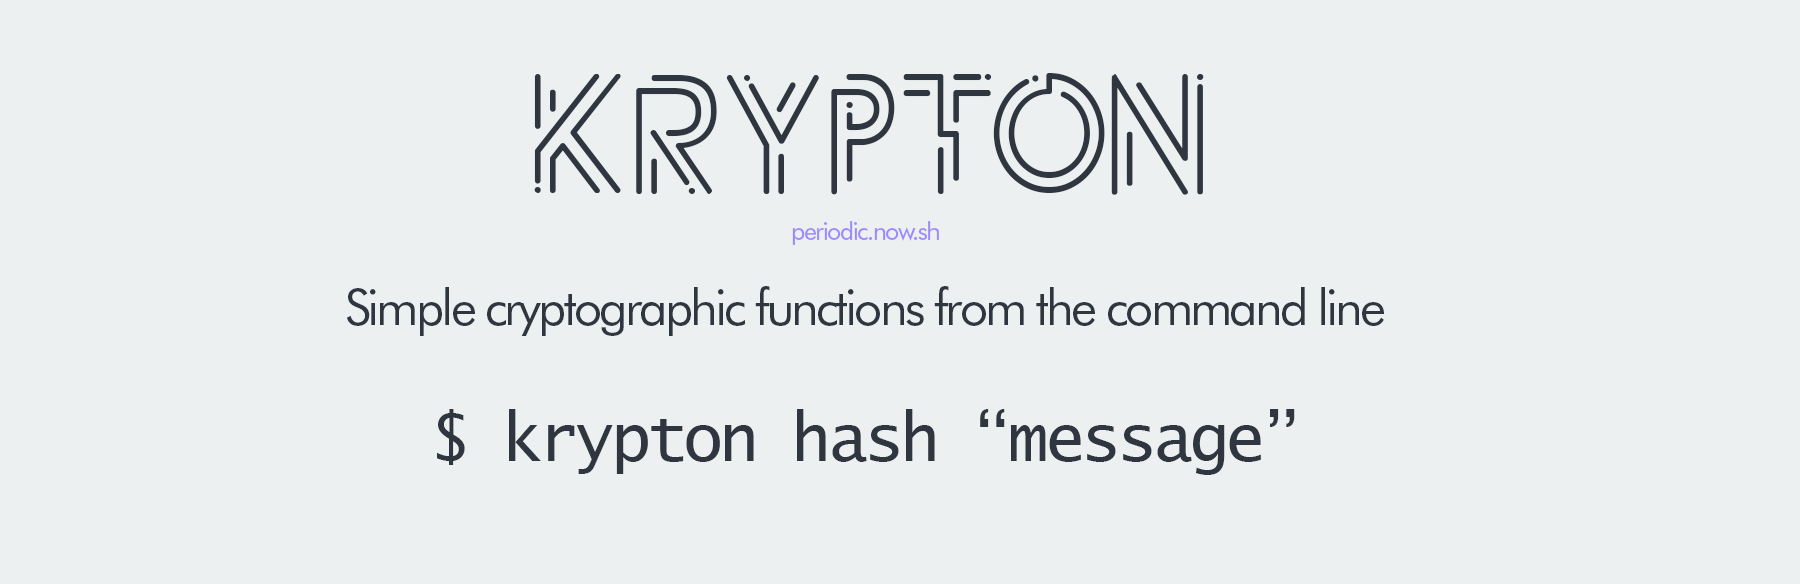
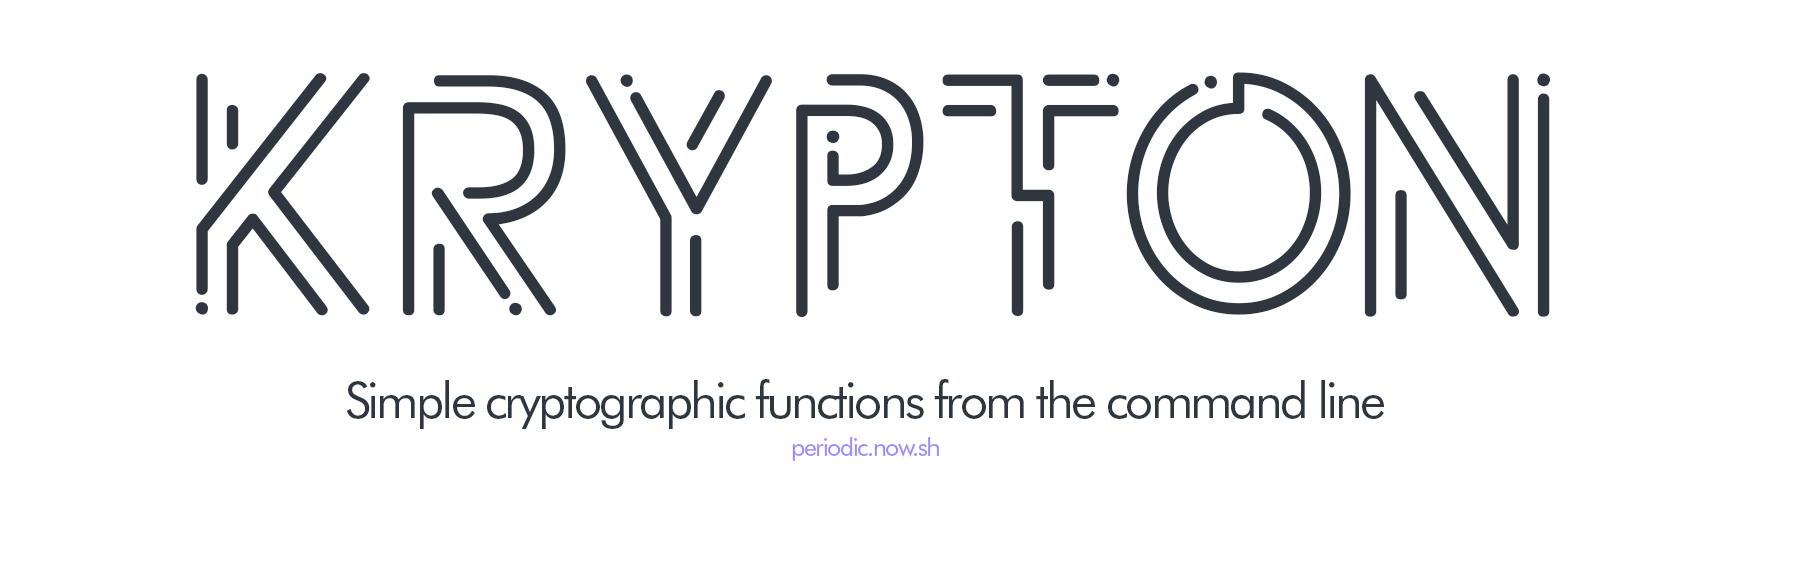
Improve readme with more examples and better header

Changed region(s): [[0.0933, 0.1233, 0.8711, 0.5856], [0.1867, 0.6473, 0.7778, 0.8322]]

diff --git a/README.md b/README.md
@@ -13,10 +13,35 @@ Or you can install the `periodic-cli` gem:
 
 ## Usage
 
-To encrypt a string, the command looks like this:
+All krypton functions use the same basic syntax: `krypton [cmd] {[message/secret]{[key]}}`
 
-    $ krypton encrypt "mymessage" "mykey" 
-    mymessage => ckhJWXcyTE1leENLOWpBQzJWbElMdz09Cg==
+* `encrypt` - Encrypt a string
+
+        $ krypton encrypt "mymessage" "mykey" 
+        mymessage => ckhJWXcyTE1leENLOWpBQzJWbElMdz09Cg==
+
+* `decrypt` - Decrypt a string
+
+        $ krypton decrypt "ckhJWXcyTE1leENLOWpBQzJWbElMdz09Cg" "mykey" 
+        ckhJWXcyTE1leENLOWpBQzJWbElMdz09Cg => mymessage
+
+* `hash` - Hash a string or piped data
+
+        $ krypton hash "mymessage"
+        mymessage => S3ONp9WM7/rCMeuUnvWDzp5dxbuSVsOV6bI5AJvRqCc=
+
+        $ echo "mymessage" | krypton hash
+        mymessage => S3ONp9WM7/rCMeuUnvWDzp5dxbuSVsOV6bI5AJvRqCc=
+
+* `uuid` - Generate a secure [uuid](https://en.wikipedia.org/wiki/Universally_unique_identifier)
+
+        $ krypton uuid
+        b6ff36d2-3f7e-4077-8ba5-5066f0a205a5
+
+* `totp` - Generate a [time-based one-time password](https://en.wikipedia.org/wiki/Time-based_One-time_Password_algorithm)
+
+        $ krypton totp "myawesomesecret"
+        myawesomesecret => 997820
 
 ## Contributing
 
